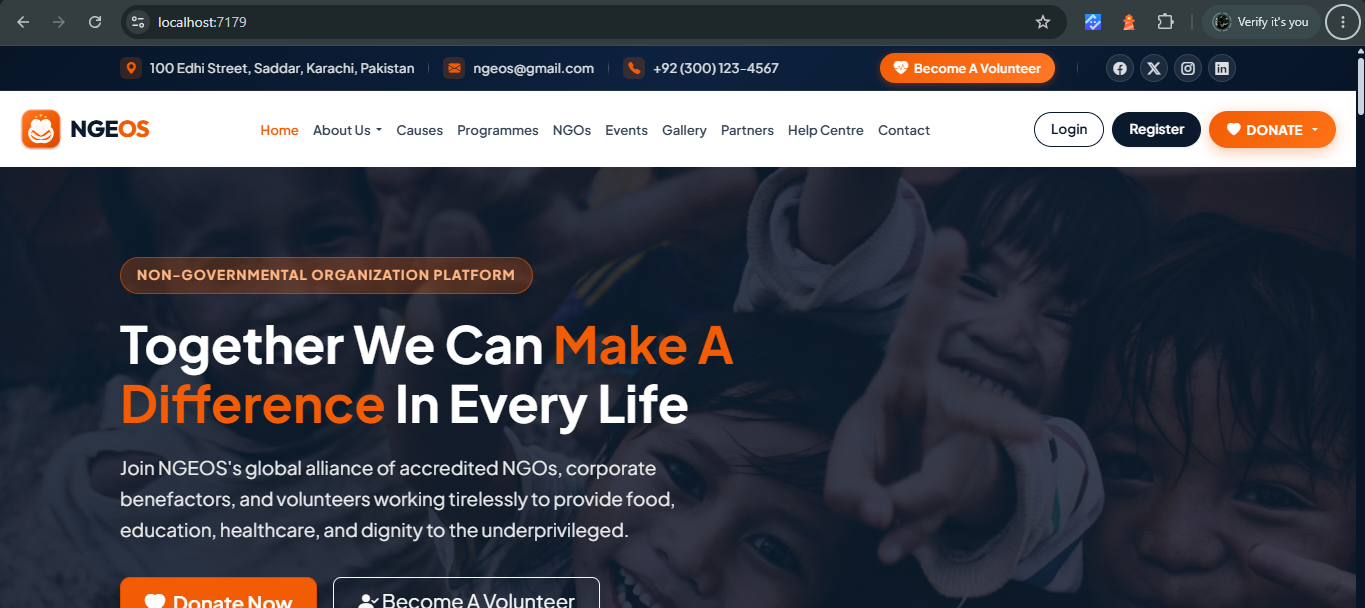
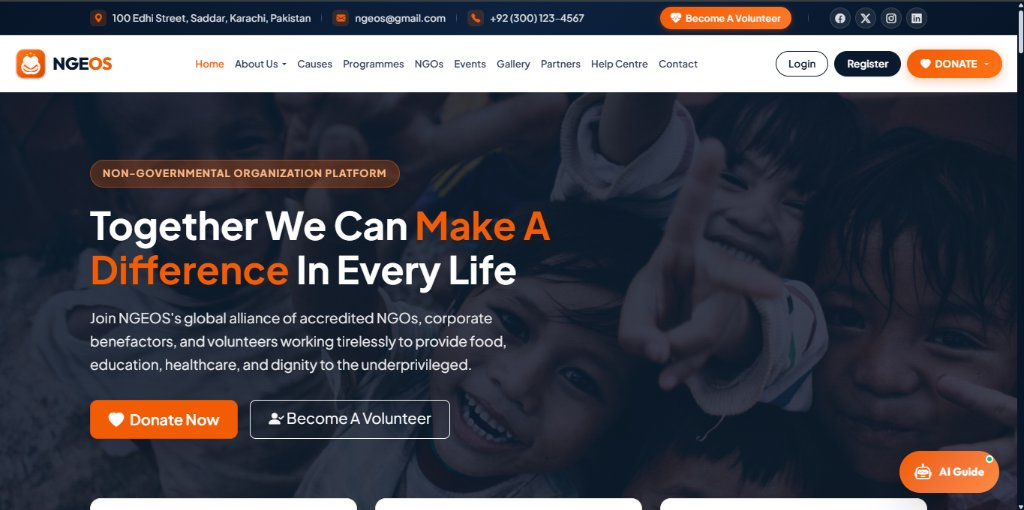
docs: add front preview with AI chatbot and localhost url to README

diff --git a/README.md b/README.md
@@ -47,6 +47,13 @@
     <a href="#-author"><b>👨💻 Author</b></a>
   </p>
 
+  <br />
+  <!-- FRONT HERO PREVIEW WITH AI CHATBOT -->
+  <img src="docs/screenshots/ngeos-web-homepage.png" alt="NGEOS Web Portal & AI Guide Assistant Preview" width="100%" />
+  <p align="center">
+    <em>🌐 NGEOS Web Portal (with Autonomous AI Assistant) — Local Development: <code>https://localhost:7179</code> (Localhost) &nbsp;|&nbsp; Live Cloud: <a href="https://ngeos.runasp.net" target="_blank">ngeos.runasp.net</a></em>
+  </p>
+
 </div>
 
 ---
@@ -78,8 +85,8 @@ NGEOS features a complete, production-grade **Python-powered Autonomous AI Ecosy
 The production version of **NGEOS** is actively deployed, publicly accessible worldwide with high availability, enterprise DDoS protection, Let's Encrypt 256-bit SSL encryption, and high-performance MS SQL database hosting:
 
 <div align="center">
-  <img src="docs/screenshots/ngeos-web-homepage.png" alt="NGEOS Web Platform Preview" width="100%" />
-  <p><em>🌐 Official NGEOS Web Portal — Live at <a href="https://ngeos.runasp.net" target="_blank">ngeos.runasp.net</a></em></p>
+  <img src="docs/screenshots/ngeos-web-homepage.png" alt="NGEOS Web Platform Preview (with AI Guide Assistant)" width="100%" />
+  <p><em>🌐 Official NGEOS Web Platform — Running locally on <code>https://localhost:7179</code> (Localhost) &nbsp;|&nbsp; Live Cloud at <a href="https://ngeos.runasp.net" target="_blank">ngeos.runasp.net</a></em></p>
 </div>
 
 | Infrastructure Layer | Technology / Provider | Configuration / Status |
